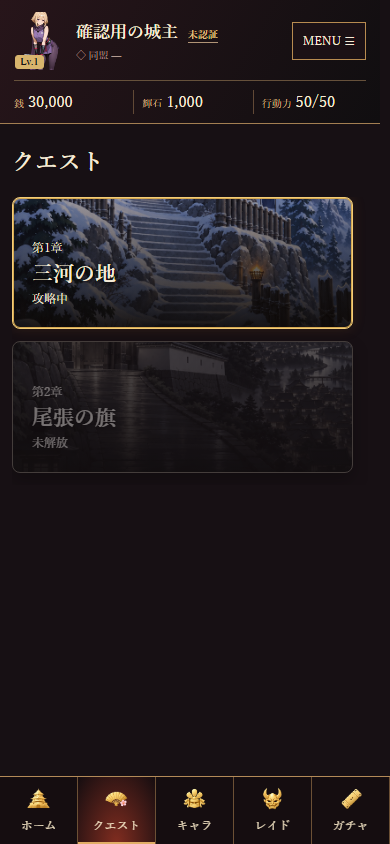
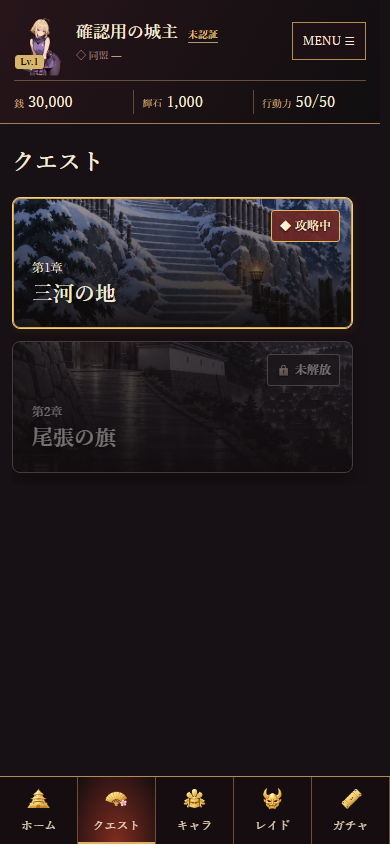
fix(game04): finish quest visual layout review

diff --git a/src/app/components/redesign/QuestView.css b/src/app/components/redesign/QuestView.css
@@ -1,6 +1,31 @@
 .redesign-quest{padding:16px 12px 24px;color:#f5ead7;max-width:520px;margin:auto}.redesign-quest h2{font-size:23px;margin:4px 0 16px}.rq-muted{color:#c6b696;font-size:12px;line-height:1.7}.rq-scroll{max-height:calc(100dvh - 230px);min-height:280px;overflow-y:auto;scrollbar-width:thin;scrollbar-color:#a68349 #17120f;padding-right:5px}.rq-scroll::-webkit-scrollbar,.redesign-quest-dialog .canonical-dialog-body::-webkit-scrollbar{width:5px}.rq-scroll::-webkit-scrollbar-thumb,.redesign-quest-dialog .canonical-dialog-body::-webkit-scrollbar-thumb{background:#a68349;border-radius:8px}.rq-area{display:flex;position:relative;width:100%;min-height:132px;margin-bottom:12px;padding:19px;text-align:left;border:1px solid #927143;border-radius:8px;flex-direction:column;justify-content:end;overflow:hidden;background-size:cover;background-position:center 45%;color:#fff3da}.rq-area strong{font-size:24px;line-height:1.5}.rq-area span{font-size:12px}.rq-area.is-current,.rq-stage.is-current{border-color:#f3cd78;box-shadow:inset 0 0 0 1px #d5a852,0 0 13px #a95c212c}.rq-area:disabled,.rq-stage:disabled{filter:grayscale(.8);opacity:.48}.rq-area-head{padding:23px 14px;border:1px solid #927143;border-radius:8px;margin:12px 0;background-size:cover;background-position:center 42%}.rq-area-head h2{margin:0}.rq-stage{display:grid;grid-template-columns:45px 1fr auto;align-items:center;gap:10px;text-align:left;width:100%;margin-bottom:9px;padding:15px 11px;background:linear-gradient(110deg,#302015,#14100e);color:#f5ead7;border:1px solid #705936;border-radius:6px}.rq-stage strong{font-size:15px}.rq-stage small{display:block;margin-top:5px;font-size:11px;color:#c6b696}.rq-back{color:#f1d8a5;background:#211811;border:1px solid #745a36;padding:8px 12px;border-radius:5px}.redesign-quest-dialog .canonical-dialog{max-height:80dvh;max-height:80vh}.redesign-quest-dialog .canonical-dialog-body{overflow-y:auto;scrollbar-width:thin;scrollbar-color:#a68349 #17120f}.redesign-quest-dialog .canonical-dialog-overlay{align-items:center}.rq-enemies{display:grid;grid-template-columns:repeat(3,minmax(0,1fr));gap:8px}.rq-enemy{text-align:center;border:1px solid #6a5437;border-radius:6px;background:#18120d;padding:7px 3px;font-size:12px}.rq-enemy img{width:100%;height:100px;object-fit:contain}.rq-enemy strong,.rq-enemy span{display:block}.rq-element{display:inline-block!important;margin:3px auto;padding:1px 7px;border-radius:10px;background:#50463a;font-size:11px}.rq-element-fire{background:#872b25}.rq-element-water{background:#234e83}.rq-element-earth{background:#725526}.rq-element-wind{background:#35634a}.rq-element-light{background:#876e30}.rq-element-dark{background:#61376e}.rq-rewards{padding-left:20px;font-size:13px;line-height:1.9}.rq-party{display:grid;grid-template-columns:repeat(5,minmax(0,1fr));gap:4px;margin:13px 0}.rq-party button{position:relative;min-width:0;padding:3px 2px 8px;background:#20160f;color:#f7e7c7;border:1px solid #8d6a3e;border-radius:5px;overflow:hidden}.rq-party img{width:100%;height:90px;object-fit:cover;object-position:top}.rq-party strong{display:block;font-size:10px;word-break:break-all;min-height:26px}.rq-party span,.rq-party small{display:block;font-size:10px}.rq-party .rq-order{position:absolute;top:4px;left:4px;background:#251b10;border-radius:50%;width:17px;height:17px;line-height:17px}.rq-total-sp{text-align:center;background:#1c2c34;border:1px solid #5c8390;padding:9px;border-radius:5px;font-size:13px}.rq-total-sp strong{margin-left:8px;color:#ade6f5}.rq-detail-item{padding:10px 0;border-bottom:1px solid #5c4830}.rq-detail-item p{font-size:12px;margin:5px 0}.rq-summary{padding:16px;border:1px solid #b58c47;background:#24190f;border-radius:8px}.rq-summary button{margin:6px;padding:10px 15px;border:1px solid #b58c47;color:#fbe8c0;background:#4a2b17}.rq-summary [role=alert]{color:#ffc29f}
 .rq-area strong{text-shadow:0 2px 5px #000}.rq-area{box-shadow:0 8px 18px #0008}.rq-encounter-hero{padding:16px 12px 10px;border:1px solid #8e6a3c;border-radius:8px;background-image:linear-gradient(180deg,#2b1c24cc,#110c0eee),url('/bg/sengoku/castle-town.jpg');background-size:cover;background-position:center}.rq-kicker{display:block;text-align:center;font-size:16px;font-weight:700;margin-bottom:8px;color:#fff1cc}.rq-bosses{display:grid;gap:8px}.rq-boss{display:flex;align-items:center;gap:12px;padding:8px;border-radius:6px;background:#100b0dcc;border:1px solid #bc8d4c}.rq-boss img{width:138px;height:142px;object-fit:contain;filter:drop-shadow(0 5px 5px #000)}.rq-boss strong,.rq-boss span,.rq-boss small{display:block}.rq-boss strong{font-size:20px}.rq-boss span,.rq-boss small{font-size:12px;margin-top:5px}.rq-stage-facts{display:grid;grid-template-columns:1fr 1fr;gap:8px;margin:12px 0}.rq-stage-facts span{padding:9px;text-align:center;border:1px solid #80613a;border-radius:6px;background:#1d1715;font-size:13px}.rq-info-actions{display:grid;grid-template-columns:1fr 1fr;gap:8px}.rq-info-actions button,.rq-inline-panel{border:1px solid #9d783f;background:#25160f;color:#ffeac0;border-radius:6px}.rq-info-actions button{padding:11px 8px;font-size:13px}.rq-inline-panel{margin-top:10px;padding:12px}.rq-inline-panel h4{margin:10px 0 0;color:#f5d993}.rq-inline-panel p{margin:6px 0}
 @media (max-width:390px){.rq-boss img{width:104px;height:116px}.rq-boss strong{font-size:16px}.rq-area strong{font-size:21px}.rq-stage{grid-template-columns:40px 1fr auto;padding:12px 8px}.rq-enemy-art.is-boss{width:100%;max-width:150px;height:180px}.rq-bosses{gap:5px}.rq-boss{padding:5px 2px}.rq-boss span,.rq-boss small{font-size:10px}}
+
+/* Layout finish: boss, card, detail, status and stage decorations have independent scales. */
+.rq-enemy-art.is-boss{width:min(100%,260px);height:275px;background:radial-gradient(ellipse at 50% 76%,#9e673733,transparent 62%);border:0;}
+.rq-enemy-art.is-boss .rq-enemy-image{padding:0 4px 8px;filter:drop-shadow(0 10px 10px #000b);}
+.rq-enemy-art.is-boss .rq-enemy-rarity{top:5px;right:5px;width:24px;height:24px;opacity:.8;}
+.rq-enemy-art.is-boss .rq-enemy-attribute{right:5px;bottom:30px;}
+.rq-enemy-art.is-boss .rq-enemy-name{bottom:3px;font-size:13px;background:#100a0dee;}
+.rq-boss .rq-enemy-image{width:100%;height:100%;}
+.rq-bosses{align-items:start;}
+.rq-boss{background:linear-gradient(180deg,#180e12aa,#100b0dcc);}
+.rq-party-card .rq-card-visual{width:100%;height:102px;flex:0 0 102px;}
+.rq-party-card .rq-party-meta strong{font-size:14px!important;min-height:34px!important;line-height:1.2;white-space:normal;text-align:center;}
+.rq-party-card .rq-party-meta small{font-size:11px!important;}
+.rq-character-visual{width:174px;height:224px;flex-basis:174px;}
+.rq-character-visual .rq-character-person{inset:-4% -8%;width:116%;height:116%;}
+.rq-detail-profile>div:last-child{padding-top:44px;}
+.rq-area-status{position:absolute;top:12px;right:12px;display:inline-flex!important;align-items:center;gap:4px;padding:5px 8px;border:1px solid #e3b95d;border-radius:3px;background:#6f2926e8;color:#fff0cf!important;font-weight:700;text-shadow:0 1px 2px #000;}
+.rq-area-status.is-cleared{background:#315536ed;border-color:#a8d39a;}
+.rq-area-status.is-locked{background:#261f24e8;border-color:#8c7d82;}
+.rq-area-status i{font-style:normal;font-size:11px;}
+.rq-stage{position:relative;overflow:visible;padding-left:12px;}
+.rq-stage:not(:last-child)::after{content:"";position:absolute;left:32px;top:100%;height:10px;border-left:2px dotted #a88349;}
+.rq-stage strong{font-size:15px;line-height:1.25;}
+.rq-stage code{font-family:Georgia,serif;color:#e4bd70;}
+.rq-stage-number{z-index:1;}
 .rq-detail-profile{display:flex;align-items:center;gap:12px;padding:4px 0 12px}.rq-detail-profile .card-icon{flex:0 0 160px}.rq-detail-profile h3{margin:0 0 7px}.rq-detail-profile p{margin:4px 0;font-size:12px}.rq-detail-stats{display:grid;grid-template-columns:repeat(2,1fr);gap:5px;margin:0 0 12px}.rq-detail-stats div{display:flex;justify-content:space-between;padding:6px 8px;border:1px solid #5f4a34;border-radius:4px;background:#171118}.rq-detail-stats dt{font-size:10px;color:#c6b696}.rq-detail-stats dd{margin:0;font-size:11px;color:#ffe2a9}
 .rq-card-visual{position:relative;width:78px;height:98px;flex:0 0 98px;overflow:hidden;background:#17141a;border:1px solid #a47c40;border-radius:4px}.rq-card-person,.rq-character-person{position:absolute;inset:5px;width:calc(100% - 10px);height:calc(100% - 10px);object-fit:contain;object-position:center bottom}.rq-card-frame,.rq-character-frame{position:absolute;inset:0;width:100%;height:100%;object-fit:fill;pointer-events:none}.rq-card-element{position:absolute!important;right:2px;bottom:3px;width:26px!important;height:11px!important;object-fit:contain!important}.rq-party-card .rq-party-meta{min-width:0}.rq-rarity-line .g4-element-badge{width:28px!important;height:12px!important}.rq-edit-button{display:block;width:100%;min-height:44px;margin:10px 0;border:1px solid #8d7270;border-radius:4px;color:#f4efe6;background:#262127;font:inherit}.rq-character-visual{position:relative;width:142px;height:180px;flex:0 0 142px;overflow:hidden;background:#17141a;border:1px solid #a47c40;border-radius:5px}.rq-character-person{inset:6px;width:calc(100% - 12px);height:calc(100% - 12px)}.rq-detail-profile{align-items:flex-start}.rq-detail-profile>div:last-child{min-width:0;padding-top:30px}.rq-detail-profile .g4-element-badge{width:38px!important;height:15px!important;object-fit:contain!important}.rq-enemy-attribute{width:42px!important;height:17px!important;object-fit:contain!important}.rq-boss span .g4-element-badge{width:40px!important;height:15px!important;object-fit:contain!important;vertical-align:middle}.rq-enemy-skills{display:flex;flex-wrap:wrap;gap:4px;margin-top:6px}.rq-enemy-skills span{display:flex;align-items:center;gap:3px;font-size:10px}.rq-enemy-skills img{width:22px;height:22px;object-fit:cover;border:1px solid #6b5c49;border-radius:3px}.rq-boss>div:last-child{min-width:0}.rq-boss small{overflow-wrap:anywhere}
 .rq-party-card .rq-rarity-line{font-size:9px!important;gap:1px;white-space:nowrap}.rq-party-card .rq-rarity-line .g4-element-badge{width:23px!important;height:10px!important}

diff --git a/src/app/components/redesign/QuestView.tsx b/src/app/components/redesign/QuestView.tsx
@@ -42,7 +42,7 @@ function enemyRarity(enemy: QuestStage['waves'][number][number]) {
 }
 function EnemyArt({ enemy, boss = false }: { enemy: QuestStage['waves'][number][number]; boss?: boolean }) {
   const rarity = enemyRarity(enemy);
-  return <div className={`rq-enemy-art ${boss ? 'is-boss' : ''}`}><img className="rq-enemy-frame" src={getRarityFrameAsset('character', rarity)} alt="" /><img className="rq-enemy-image" src={enemy.image} alt={enemy.name} /><img className="rq-enemy-rarity" src={getRarityBadgeAsset(rarity)} alt={rarity} /><ElementBadge element={enemy.element} className="rq-enemy-attribute" /><span className="rq-enemy-name">{enemy.name}</span></div>;
+  return <div className={`rq-enemy-art ${boss ? 'is-boss' : ''}`}>{!boss && <img className="rq-enemy-frame" src={getRarityFrameAsset('character', rarity)} alt="" />}<img className="rq-enemy-image" src={enemy.image} alt={enemy.name} /><img className="rq-enemy-rarity" src={getRarityBadgeAsset(rarity)} alt={`${rarity}レアリティ`} /><ElementBadge element={enemy.element} className="rq-enemy-attribute" />{!boss && <span className="rq-enemy-name">{enemy.name}</span>}</div>;
 }
 export default function QuestView({ state, party, vipActive, onStart, onOpenDeck, onOpenRaid, onIgnoreEncounter, initialStageId, onBattlePlayingChange }: {
   state: RedesignState; party: BattleUnit[]; vipActive: boolean; onStart: (stageId: string) => Promise<QuestSettlement>;
@@ -105,11 +105,11 @@ export default function QuestView({ state, party, vipActive, onStart, onOpenDeck
       {area ? <><button className="rq-back" onClick={() => setAreaId(null)}>‹ エリア一覧</button><header className="rq-area-head" style={{ backgroundImage: `linear-gradient(90deg,#100a08d9,#100a0859),url("${area.image}")` }}><h2>{area.name}</h2></header>
         <div className="rq-scroll" aria-label={`${area.name}のステージ一覧`}>{area.stages.map(stage => {
           const cleared = state.clearedStages.includes(stage.id), unlocked = isQuestStageUnlocked(stage.id, state.clearedStages);
-          return <button className={`rq-stage ${current.id === stage.id ? 'is-current' : ''}`} key={stage.id} disabled={!unlocked} onClick={() => openStage(stage)}><b className="rq-stage-number">{area.index}-{stage.index}</b><span><strong>{(stage as QuestStage & { designId?: string }).designId ?? `${area.index}-${stage.index}`}</strong><small>消費行動力 {questEnergyCost(stage,state)}</small></span><small className="rq-state-label">{cleared ? 'クリア済' : unlocked ? '挑戦可能' : '未解放'}</small></button>;
+          return <button className={`rq-stage ${current.id === stage.id ? 'is-current' : ''}`} key={stage.id} disabled={!unlocked} onClick={() => openStage(stage)}><b className="rq-stage-number">{area.index}-{stage.index}</b><span><strong>{stage.name}</strong><small><code>{(stage as QuestStage & { designId?: string }).designId ?? `${area.index}-${stage.index}`}</code> · 消費行動力 {questEnergyCost(stage,state)}</small></span><small className="rq-state-label">{cleared ? 'クリア済' : unlocked ? '挑戦可能' : '未解放'}</small></button>;
         })}</div></> : <><h2>クエスト</h2><div className="rq-scroll rq-area-list" aria-label="エリア一覧">{visibleAreas.map(entry => {
           const cleared = entry.stages.every(stage => state.clearedStages.includes(stage.id));
           const unlocked = isQuestStageUnlocked(entry.stages[0].id, state.clearedStages);
-          return <button key={entry.id} disabled={!unlocked} className={`rq-area ${entry.id === current.areaId ? 'is-current' : ''}`} style={{ backgroundImage: `linear-gradient(0deg,#0c0806ed,#0c080650),url("${entry.image}")` }} onClick={() => setAreaId(entry.id)}><span>第{entry.index}章</span><strong>{entry.name}</strong><span>{cleared ? 'クリア済' : unlocked ? '攻略中' : '未解放'}</span></button>;
+          return <button key={entry.id} disabled={!unlocked} className={`rq-area ${entry.id === current.areaId ? 'is-current' : ''}`} style={{ backgroundImage: `linear-gradient(0deg,#0c0806ed,#0c080650),url("${entry.image}")` }} onClick={() => setAreaId(entry.id)}><span>第{entry.index}章</span><strong>{entry.name}</strong><span className={`rq-area-status ${cleared ? 'is-cleared' : unlocked ? 'is-current' : 'is-locked'}`}><i aria-hidden="true">{cleared ? '✓' : unlocked ? '◆' : '🔒'}</i>{cleared ? '解放済' : unlocked ? '攻略中' : '未解放'}</span></button>;
         })}</div></>}
     </>}
     {selected && modal === 'info' && <div className="redesign-quest-dialog"><CanonicalDialog title={`${QUEST_AREAS.find(entry => entry.id === selected.areaId)?.index}-${selected.index}`} onClose={() => setModal(null)} actions={[{ label: '戻る', onClick: () => setModal(null) }, { label: '挑戦', semantic: 'primary', onClick: () => setModal('prepare'), disabled: !isQuestStageUnlocked(selected.id, state.clearedStages) }]}>

diff --git a/src/app/qa/redesign/RedesignFixture.tsx b/src/app/qa/redesign/RedesignFixture.tsx
@@ -16,6 +16,7 @@ import { applyRaidAction, createRaidRoom, getRoomRaidMaster, raidEnemy } from '@
 import { simulateBattle, type BattleResult } from '@/domain/redesign/battle';
 import type { RaidRoom, RedesignState } from '@/domain/redesign/types';
 import '@/app/components/redesign/redesign.css';
+import { characterArt } from '@/theme/creativeAssets';
 
 const noop = () => undefined;
 import { emptyGrowthInventory } from '@/domain/redesign/growthMaster';
@@ -114,7 +115,7 @@ export default function RedesignFixture() {
     handleSendDirectMessage: async () => { setMessage('DMは確認用画面では送信されません。'); },
   };
   return <GameContext.Provider value={game}><div className="rd-shell">
-    <header className="rd-header"><div className="rd-identity"><span className="rd-avatar"><img src={party[0]?.image} alt={party[0]?.name || '先頭武将'} /><b>Lv.1</b></span><div><strong>確認用の城主 <span className="rd-auth-link">未認証</span></strong><span className="rd-guild-slot">◇ 同盟 —</span></div></div><button className="rd-menu-button" onClick={() => setQaOpen(true)} aria-label="メニュー">MENU ☰</button><div className="rd-resources"><span><small>銭</small> {state.cash.toLocaleString()}</span><span><small>輝石</small> {state.diamonds.toLocaleString()}</span><span><small>行動力</small> {state.energy}/{state.energyMax}</span></div></header>
+    <header className="rd-header"><div className="rd-identity"><span className="rd-avatar"><img src={characterArt(party[0], 'portrait') ?? party[0]?.image} alt={party[0]?.name || '先頭武将'} /><b>Lv.1</b></span><div><strong>確認用の城主 <span className="rd-auth-link">未認証</span></strong><span className="rd-guild-slot">◇ 同盟 —</span></div></div><button className="rd-menu-button" onClick={() => setQaOpen(true)} aria-label="メニュー">MENU ☰</button><div className="rd-resources"><span><small>銭</small> {state.cash.toLocaleString()}</span><span><small>輝石</small> {state.diamonds.toLocaleString()}</span><span><small>行動力</small> {state.energy}/{state.energyMax}</span></div></header>
     {qaOpen && <div className="rd-qa-backdrop" role="dialog" aria-modal="true" aria-label="QAメニュー"><aside className="rd-qa-panel"><div className="rd-qa-title"><strong>QAメニュー</strong><button onClick={() => setQaOpen(false)} aria-label="閉じる">×</button></div><p className="rd-qa-muted">表示確認専用。保存・API接続・認証・決済は行いません。</p><div className="rd-qa-links">{[['home','Home'],['quest','Quest'],['character','Growth'],['raid','Raid'],['territory','領土侵攻'],['battle','Battle']].map(([id,label]) => <button key={id} onClick={() => { navigate(id); setQaOpen(false); }}>{label}</button>)}</div><label className="rd-qa-check"><input type="checkbox" checked={vip} onChange={event => setVip(event.target.checked)} /> VIP表示確認</label><button className="rd-button" onClick={() => { setState(fixtureState()); setBattle(null); setMessage('QA状態を初期化しました。'); }}>QA初期化</button><button className="rd-button" onClick={() => setState(previous => ({ ...previous, materials: { ...previous.materials, unlock: 0 } }))}>QA 開催アイテム0</button><button className="rd-button" onClick={() => { setTerritoryExp(300); setState(previous => ({ ...previous, materials: { ...previous.materials, unlock: 5 } })); }}>QA 開催枠とアイテム補充</button></aside></div>}
     <main className="rd-main">
       {battle ? <BattleView result={battle} vipActive={vip} title="レイド・ローカル確認" onComplete={() => setBattle(null)} /> : <>

diff --git a/src/app/components/redesign/redesign.css b/src/app/components/redesign/redesign.css
@@ -19,6 +19,9 @@
 
 .rd-rescue-link{display:block;margin-top:6px;padding:5px 9px;font-size:11px}.rd-message>div{min-width:0}
 
+/* Header face crop for the quest review viewport. */
+.rd-avatar>img{object-position:50% 19%!important;transform:scale(1.12);transform-origin:center 22%;}
+
 /* Shared viewport scroll owner: html/body deliberately do not scroll. */
 .rd-shell {
   height: 100vh;

diff --git a/docs/design/quest/2026-09-22/LAYOUT_FINISH_VERIFICATION_2026-09-23.md b/docs/design/quest/2026-09-22/LAYOUT_FINISH_VERIFICATION_2026-09-23.md
@@ -1,0 +1,51 @@
+# クエスト レイアウト仕上げ確認
+
+## 基準
+
+- 指示SHA: `18f78891da869a81324a6bd2aa830c17a80e50a4`
+- 対象実装: `6be619948610e20f3242d446675284c1afe193eb` 以降の最新実装
+- Preview: https://game04-hln9ta39v-kiyoshi-kitamura.vercel.app/qa/redesign?view=quest
+- Deployment: `dpl_3oWrkfphwBs6F7mG6PXZBZGrG6Mr`（Production公開なし）
+
+## 変更・確認結果
+
+### ボス大写し
+
+`03-challenge.png` でバトル用ディフォルメ画像を独立した大きな展示領域へ接続。編成カード用のレアリティ枠をボスへ流用せず、巨大なN表示を除去した。複数敵は正式Wave構成のまま2列で表示し、属性・名前・HP／ATK／DEF・スキル情報と挑戦／ヒント／報酬導線を保持した。
+
+### 編成・詳細
+
+`04-preparation.png` は5人のカード用素材、実レアリティ枠、属性、順番バッジ、名前・Lv・HPを独立配置。名前は14px相当を維持し、合計SP400、編成変更、戻る／挑むを保持した。
+
+`05-character-detail.png` はポートレート素材を詳細専用領域へ拡大し、顔・上半身、正式パラメータ、正式スキルアイコン／名称／SP／効果を同時確認できる配置にした。
+
+### エリア・Header
+
+`01-area-list.png` は攻略中／未解放を色だけに依存しない旗・文字・鍵バッジで表示。Headerはポートレート素材の顔クロップとLv重ねを使用し、Header高や共通Footerを変更していない。
+
+### ステージ装飾
+
+`02-stage-list.png` は正式ステージ名（例：`初期3人で戦闘を学ぶ`）を表示し、designIdは補助情報へ分離。番号メダリオン、縦の接続線、挑戦可能／未解放バッジ、背景カード装飾を確認した。ステージ件数・順序・解放条件・消費量は変更していない。
+
+## 保存した実画面
+
+- [5画面＋ヒント＋報酬詳細比較](./comparison/quest-visual-comparison-20260923.png)
+- [挑戦前](./comparison/03-challenge.png)
+- [出撃準備](./comparison/04-preparation.png)
+- [キャラ詳細](./comparison/05-character-detail.png)
+- [エリア一覧](./comparison/01-area-list.png)
+- [ステージ一覧](./comparison/02-stage-list.png)
+- [攻略ヒント](./comparison/06-hint-detail.png)
+- [報酬詳細](./comparison/07-reward-detail.png)、[末尾](./comparison/07-reward-detail-bottom.png)
+
+## 検証
+
+- `NEXT_PUBLIC_USE_MOCK_DB=true npm run typecheck` 成功。
+- 専用Previewの `agent-browser` networkidle／DOMスナップショット確認成功。
+- 390×844で全画面を再撮影し、比較画像を更新。小画面でボス・カード・詳細・状態バッジ・CTAの到達性を確認した。
+- 正式65面、敵／Wave／報酬、編成5人、共通SP400、その他の正式数値・ルールは変更していない。
+
+## 未完了事項
+
+- 明智光秀の不足バトル素材1件はユーザー供給待ちとして別管理。未使用SSRサンプルは割り当てていない。
+- ユーザー実機総合受入と領土侵攻を含む受入は別工程。
